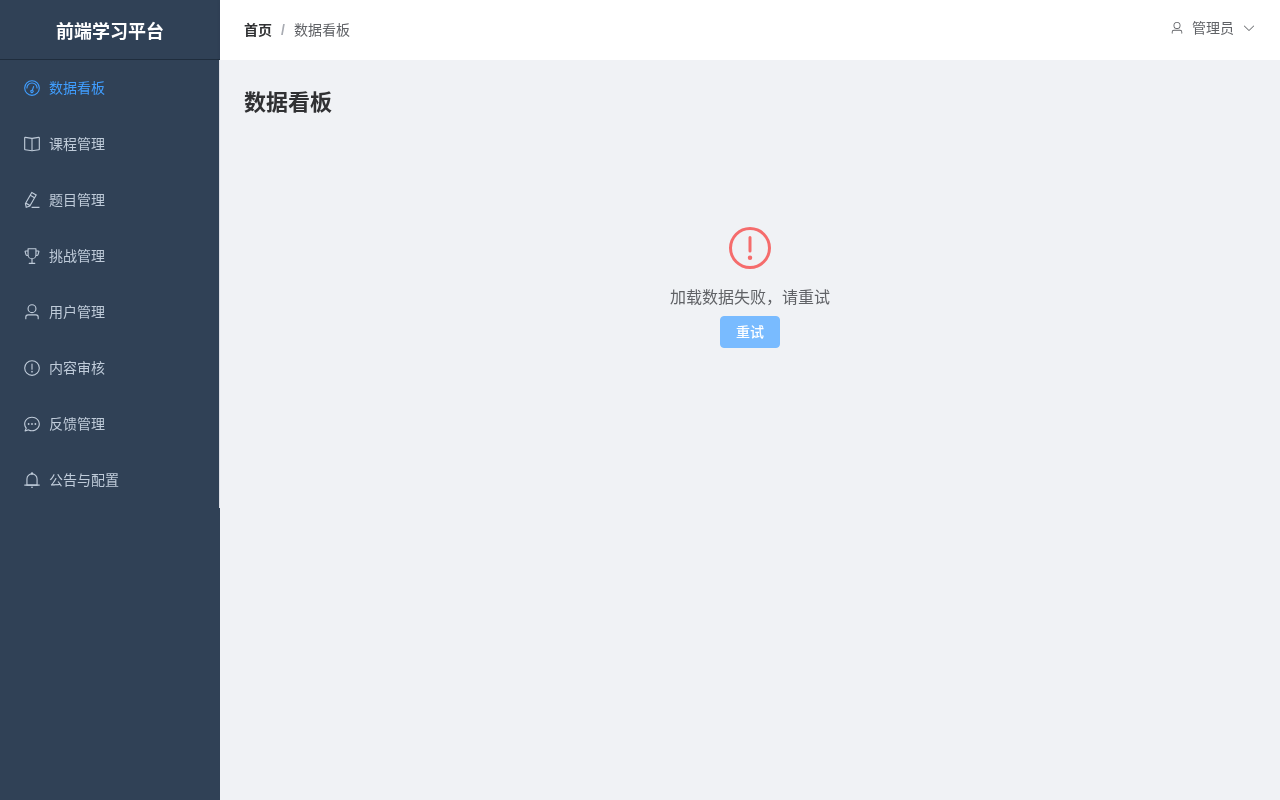
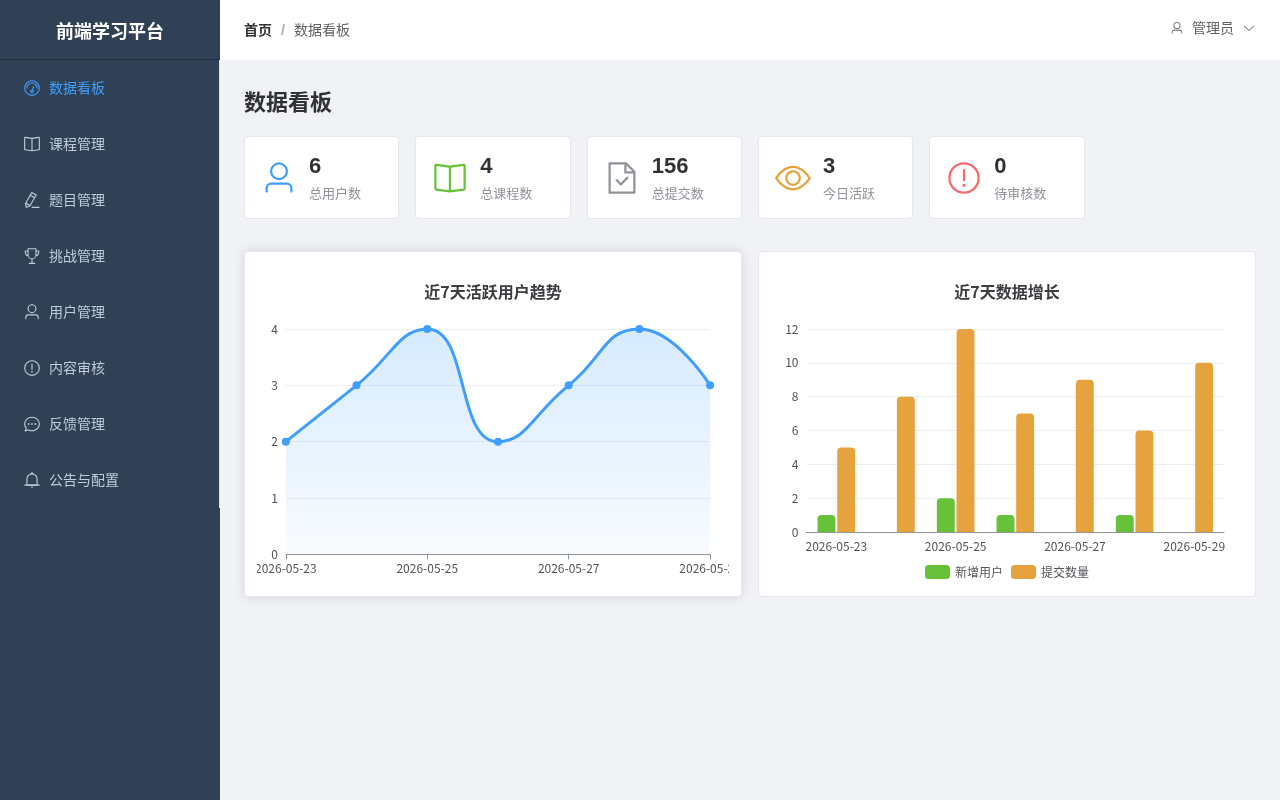
feat(admin): add content fields to CRUD dialogs
- courses: add description, cover_image_url fields
- exercises: add chapter_id, sort_order, content_json (JSON textarea)
- challenges: add description, related_course_id fields
- All forms now have complete data entry for demo

diff --git a/admin/src/views/practice/index.vue b/admin/src/views/practice/index.vue
@@ -2,7 +2,7 @@
 import { ref } from 'vue'
 import { useRouter } from 'vue-router'
 import { Plus, Warning, Document } from '@element-plus/icons-vue'
-import type { AdminExerciseListItem, AdminExerciseDetail, ExerciseType, ExerciseStatus } from '@/types'
+import type { AdminExerciseListItem, ExerciseType, ExerciseStatus } from '@/types'
 import { exerciseApi } from '@/api'
 import { ElMessage, ElMessageBox } from 'element-plus'
 
@@ -25,10 +25,13 @@ const pagination = ref({
 
 interface ExerciseForm {
   id?: string
+  chapter_id: string
   title: string
   exercise_type: ExerciseType
   difficulty: 'beginner' | 'intermediate'
   status: ExerciseStatus
+  sort_order: number
+  content_json: string
 }
 
 const dialogVisible = ref(false)
@@ -38,10 +41,13 @@ const isCreating = ref(false)
 const handleCreate = () => {
   isCreating.value = true
   editingExercise.value = {
+    chapter_id: '',
     title: '',
     exercise_type: 'coding',
     difficulty: 'beginner',
     status: 'draft',
+    sort_order: 0,
+    content_json: '{}',
   }
   dialogVisible.value = true
 }
@@ -50,10 +56,15 @@ const handleEdit = (exercise: AdminExerciseListItem) => {
   isCreating.value = false
   editingExercise.value = {
     id: exercise.id,
+    chapter_id: (exercise as any).chapter_id || '',
     title: exercise.title,
     exercise_type: exercise.exercise_type,
     difficulty: exercise.difficulty,
     status: exercise.status,
+    sort_order: (exercise as any).sort_order || 0,
+    content_json: (exercise as any).content_json
+      ? JSON.stringify((exercise as any).content_json, null, 2)
+      : '{}',
   }
   dialogVisible.value = true
 }
@@ -79,15 +90,22 @@ const handleSave = async () => {
   if (!editingExercise.value) return
   
   try {
+    let contentJson: Record<string, unknown> = {}
+    try {
+      contentJson = JSON.parse(editingExercise.value.content_json || '{}')
+    } catch {
+      ElMessage.error('题目内容 JSON 格式错误')
+      return
+    }
+
     if (isCreating.value) {
-      const { ...createData } = editingExercise.value
-      delete createData.id
-      await exerciseApi.create(createData as unknown as Omit<AdminExerciseListItem, 'id' | 'created_at' | 'updated_at'>)
+      const { content_json, ...rest } = editingExercise.value
+      await exerciseApi.create({ ...rest, content_json: contentJson } as any)
       ElMessage.success('创建成功')
     } else {
-      const { id, ...updateData } = editingExercise.value
+      const { id, content_json, ...updateData } = editingExercise.value
       if (id) {
-        await exerciseApi.update(id, updateData as unknown as Partial<AdminExerciseDetail>)
+        await exerciseApi.update(id, { ...updateData, content_json: contentJson } as any)
         ElMessage.success('更新成功')
       }
     }
@@ -403,6 +421,14 @@ fetchData()
         :model="editingExercise"
         label-width="100px"
       >
+        <el-form-item label="所属章节">
+          <el-select v-model="editingExercise.chapter_id" placeholder="选择章节" filterable>
+            <el-option label="CSS 简介 (mock-chapter-004)" value="mock-chapter-004" />
+            <el-option label="CSS 选择器 (mock-chapter-005)" value="mock-chapter-005" />
+            <el-option label="HTML 基础 (mock-chapter-001)" value="mock-chapter-001" />
+            <el-option label="HTML 属性 (mock-chapter-002)" value="mock-chapter-002" />
+          </el-select>
+        </el-form-item>
         <el-form-item label="题目名称">
           <el-input v-model="editingExercise.title" />
         </el-form-item>
@@ -441,6 +467,18 @@ fetchData()
               value="published"
             />
           </el-select>
+        </el-form-item>
+        <el-form-item label="排序">
+          <el-input-number v-model="editingExercise.sort_order" :min="0" />
+        </el-form-item>
+        <el-form-item label="题目内容">
+          <el-input
+            v-model="editingExercise.content_json"
+            type="textarea"
+            :rows="8"
+            placeholder='{"description": "...", "code_template": "..."}'
+          />
+          <div class="field-hint">JSON 格式，包含题目说明、代码模板、测试用例等</div>
         </el-form-item>
       </el-form>
       <template #footer>

diff --git a/admin/src/views/challenges/index.vue b/admin/src/views/challenges/index.vue
@@ -23,9 +23,11 @@ const pagination = ref({
 interface ChallengeForm {
   id?: string
   title: string
+  description: string
   difficulty: 'beginner' | 'intermediate'
   reward_xp: number
   status: 'draft' | 'published'
+  related_course_id: string
 }
 
 const dialogVisible = ref(false)
@@ -36,9 +38,11 @@ const handleCreate = () => {
   isCreating.value = true
   editingChallenge.value = {
     title: '',
+    description: '',
     difficulty: 'beginner',
     reward_xp: 0,
     status: 'draft',
+    related_course_id: '',
   }
   dialogVisible.value = true
 }
@@ -48,9 +52,11 @@ const handleEdit = (challenge: AdminChallengeListItem) => {
   editingChallenge.value = {
     id: challenge.id,
     title: challenge.title,
+    description: challenge.description || '',
     difficulty: challenge.difficulty,
     reward_xp: challenge.reward_xp,
     status: challenge.status === 'archived' ? 'published' : challenge.status,
+    related_course_id: challenge.related_course_id || '',
   }
   dialogVisible.value = true
 }
@@ -348,6 +354,14 @@ fetchData()
         <el-form-item label="挑战名称">
           <el-input v-model="editingChallenge.title" />
         </el-form-item>
+        <el-form-item label="挑战描述">
+          <el-input
+            v-model="editingChallenge.description"
+            type="textarea"
+            :rows="4"
+            placeholder="挑战的详细描述和要求"
+          />
+        </el-form-item>
         <el-form-item label="难度">
           <el-select v-model="editingChallenge.difficulty">
             <el-option
@@ -365,6 +379,14 @@ fetchData()
             v-model="editingChallenge.reward_xp"
             :min="0"
           />
+        </el-form-item>
+        <el-form-item label="关联课程">
+          <el-select v-model="editingChallenge.related_course_id" placeholder="选择关联课程" clearable filterable>
+            <el-option label="HTML 基础入门 (mock-course-001)" value="mock-course-001" />
+            <el-option label="CSS 基础入门 (mock-course-002)" value="mock-course-002" />
+            <el-option label="JavaScript 基础入门 (mock-course-003)" value="mock-course-003" />
+            <el-option label="响应式设计 (mock-course-004)" value="mock-course-004" />
+          </el-select>
         </el-form-item>
         <el-form-item label="状态">
           <el-select v-model="editingChallenge.status">

diff --git a/admin/src/views/courses/index.vue b/admin/src/views/courses/index.vue
@@ -26,6 +26,8 @@ interface CourseForm {
   course_code: string
   title: string
   summary: string
+  description: string
+  cover_image_url: string
   difficulty: 'beginner' | 'intermediate'
   estimated_minutes: number
   status: 'draft' | 'published'
@@ -43,6 +45,8 @@ const handleCreate = () => {
     course_code: '',
     title: '',
     summary: '',
+    description: '',
+    cover_image_url: '',
     difficulty: 'beginner',
     estimated_minutes: 0,
     status: 'draft',
@@ -59,6 +63,8 @@ const handleEdit = (course: AdminCourseListItem) => {
     course_code: course.course_code,
     title: course.title,
     summary: course.summary || '',
+    description: (course as any).description || '',
+    cover_image_url: (course as any).cover_image_url || '',
     difficulty: course.difficulty,
     estimated_minutes: course.estimated_minutes,
     status: course.status === 'archived' ? 'published' : course.status,
@@ -409,6 +415,20 @@ fetchData()
             v-model="editingCourse.summary"
             type="textarea"
             :rows="3"
+          />
+        </el-form-item>
+        <el-form-item label="详细描述">
+          <el-input
+            v-model="editingCourse.description"
+            type="textarea"
+            :rows="5"
+            placeholder="课程的详细描述，支持 Markdown 格式"
+          />
+        </el-form-item>
+        <el-form-item label="封面图URL">
+          <el-input
+            v-model="editingCourse.cover_image_url"
+            placeholder="https://example.com/cover.png"
           />
         </el-form-item>
         <el-form-item label="难度">